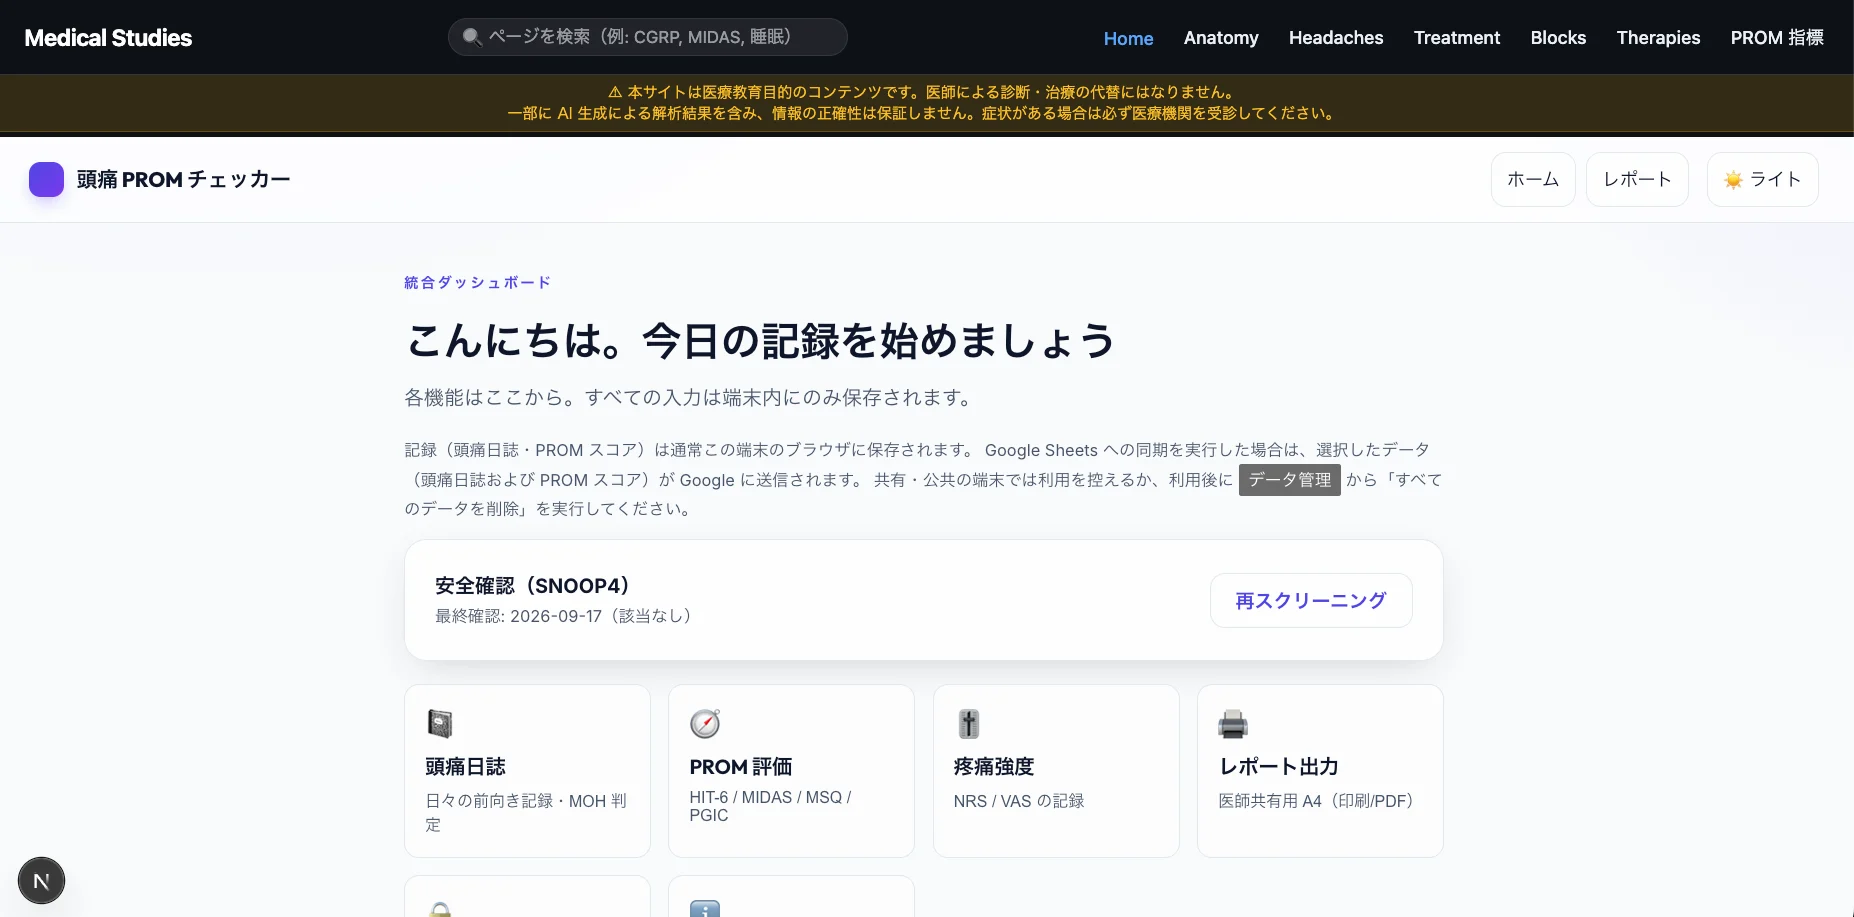
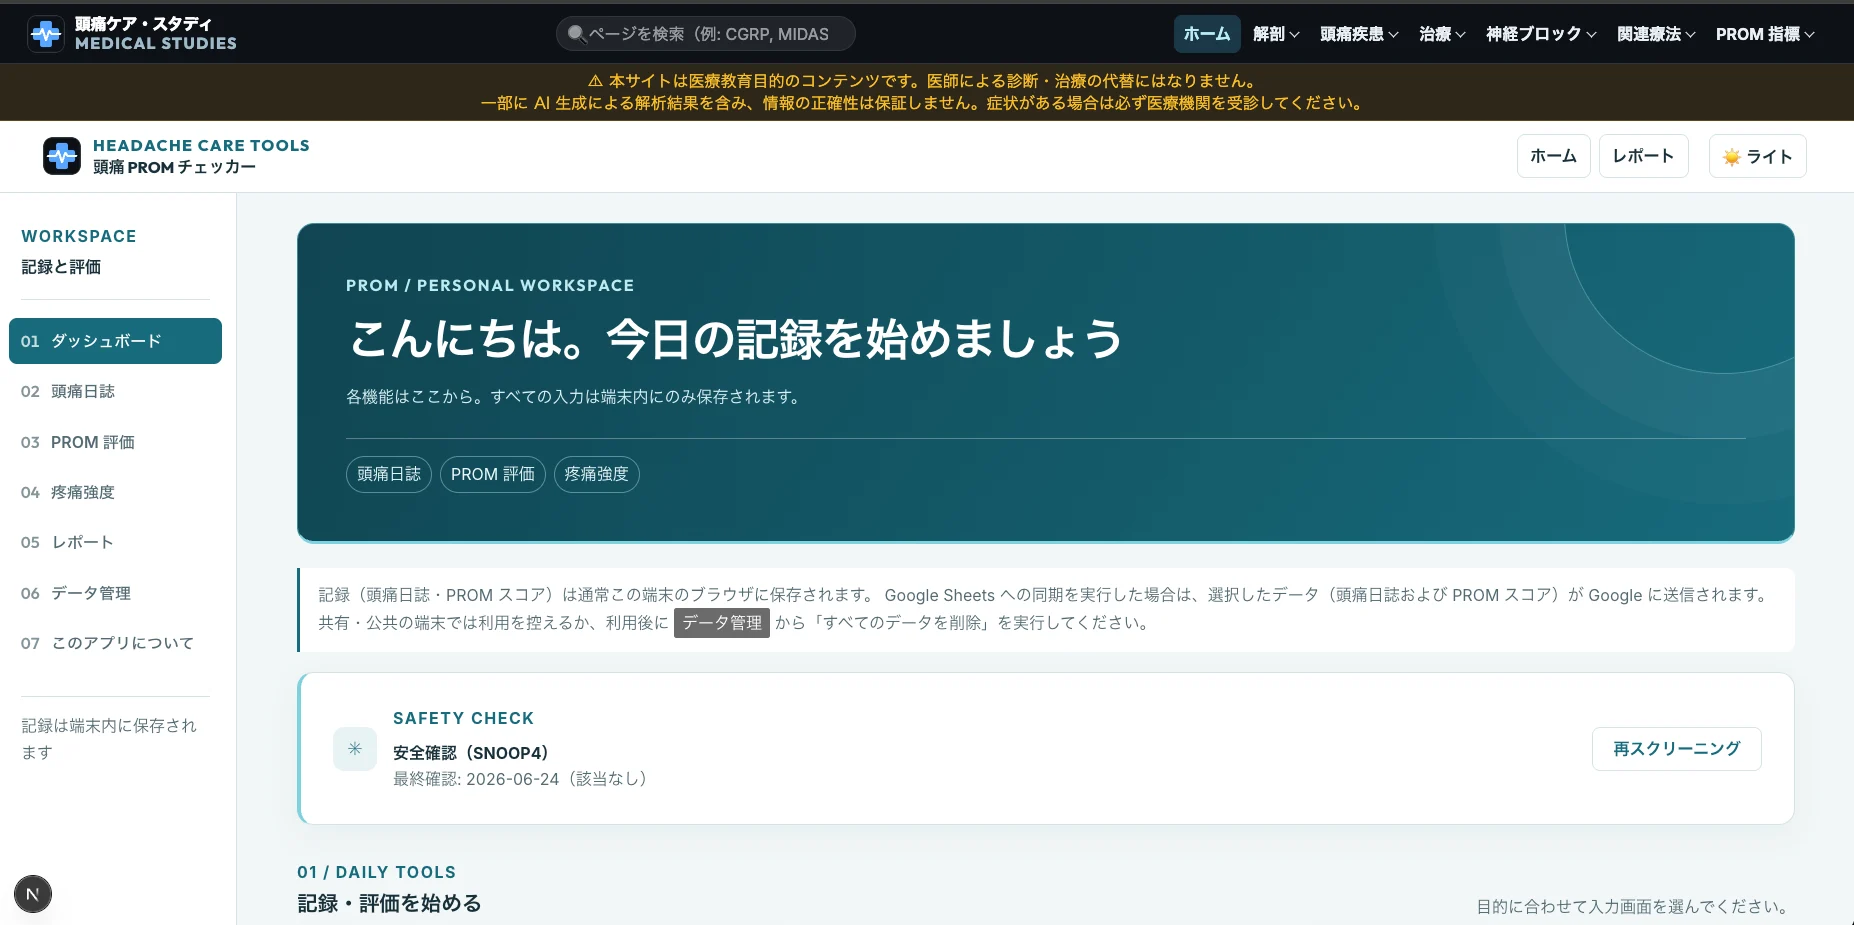
feat(medical-studies): update slideshow slides and replace screenshot assets

diff --git a/components/projects/medical-studies-slideshow.tsx b/components/projects/medical-studies-slideshow.tsx
@@ -2,12 +2,16 @@ import { ProjectSlideshow, type ProjectSlide } from "./project-slideshow";
 
 const slides = [
   { file: "prom-checker-dashboard.png", title: "PROM統合チェッカー", alt: "頭痛PROMチェッカーの統合ダッシュボード。頭痛日誌、PROM評価、疼痛強度、レポート出力を選べる" },
-  { file: "anatomy-cervical-spine-viewer.png", title: "3D解剖アトラス — 骨・頸椎", alt: "頸椎の3DモデルとMRIスライスを並べて学べる解剖アトラス画面" },
-  { file: "headaches-tension-type-guide.png", title: "疾患別ガイド — 緊張型頭痛", alt: "緊張型頭痛の定義、疫学、診断、治療を扱う教育ガイド画面" },
-  { file: "treatment-migraine-prevention-guide.png", title: "治療ガイド — 片頭痛予防", alt: "片頭痛予防治療の適応判断と薬効群を解説する教育ガイド画面" },
-  { file: "blocks-superior-cervical-ganglion-guide.png", title: "神経ブロック — 上頸神経節", alt: "上頸神経節ブロックの解剖、適応、禁忌、手技を解説する教育ガイド画面" },
-  { file: "therapies-headache-acupoints-guide.png", title: "非薬物療法 — 頭痛と経穴", alt: "肩井、肩外兪、膏肓、風池、天柱と頭痛の関係を扱う教育ガイド画面" },
-  { file: "prom-hit6-reference-guide.png", title: "PROM解説 — HIT-6", alt: "HIT-6の背景、構造、採点、解釈を扱うリファレンスガイド画面" },
+  { file: "prom-checker-headache-diary.png", title: "頭痛日誌 — MOHリスク判定", alt: "頭痛日誌（前向き記録）とMOHリスク判定テーブルを扱うPROMチェッカー画面" },
+  { file: "prom-checker-evaluation-report.png", title: "頭痛評価レポート", alt: "医師共有用の頭痛評価レポート。基本サマリーとMOHリスク判定を出力する画面" },
+  { file: "anatomy-atlas-top.png", title: "3D解剖アトラス — トップ", alt: "頭痛3D解剖アトラスのトップ画面。7系統・42解剖構造をナビゲーションで探せる" },
+  { file: "anatomy-head-neck-interactive-model.png", title: "3D解剖 — 頭頸部の全体像", alt: "頭頸部の全体像インタラクティブモデル。神経・血管・骨・筋を共通座標で表示する画面" },
+  { file: "anatomy-cervical-spine-structure-explorer.png", title: "3D解剖 — 頸椎 Structure Explorer", alt: "頸椎のStructure Explorerモーダル。第4頸椎C4の位置・機能・頭痛との関係を日英で解説" },
+  { file: "headaches-migraine-guide.png", title: "疾患ガイド — 片頭痛 完全ガイド", alt: "片頭痛（Migraine）の完全ガイド。ICHD-3、SNOOP4、CGRP最新療法を解説する教育画面" },
+  { file: "treatment-acute-headache-guide.png", title: "治療ガイド — 頭痛の急性期治療", alt: "頭痛の急性期治療の考え方。薬効群の総論と階層化治療・MOH予防を解説する画面" },
+  { file: "blocks-occipital-nerve-guide.png", title: "神経ブロック — 後頭神経ブロック", alt: "後頭神経ブロック（ONB）完全ガイド。解剖・適応・手技・SNOOP4安全管理を扱う教育画面" },
+  { file: "therapies-physical-therapy-guide.png", title: "関連療法 — 理学療法 完全ガイド", alt: "頭痛に対する理学療法の完全ガイド。ICHD-3・Cochrane準拠の包括的解説画面" },
+  { file: "prom-headache-diary-guide.png", title: "PROMガイド — 頭痛日誌", alt: "頭痛日誌（Headache Diary）完全ガイド。SNOOP4レッドフラッグスクリーニングを解説する画面" },
 ] as const satisfies readonly ProjectSlide[];
 
 export function MedicalStudiesSlideshow() {
